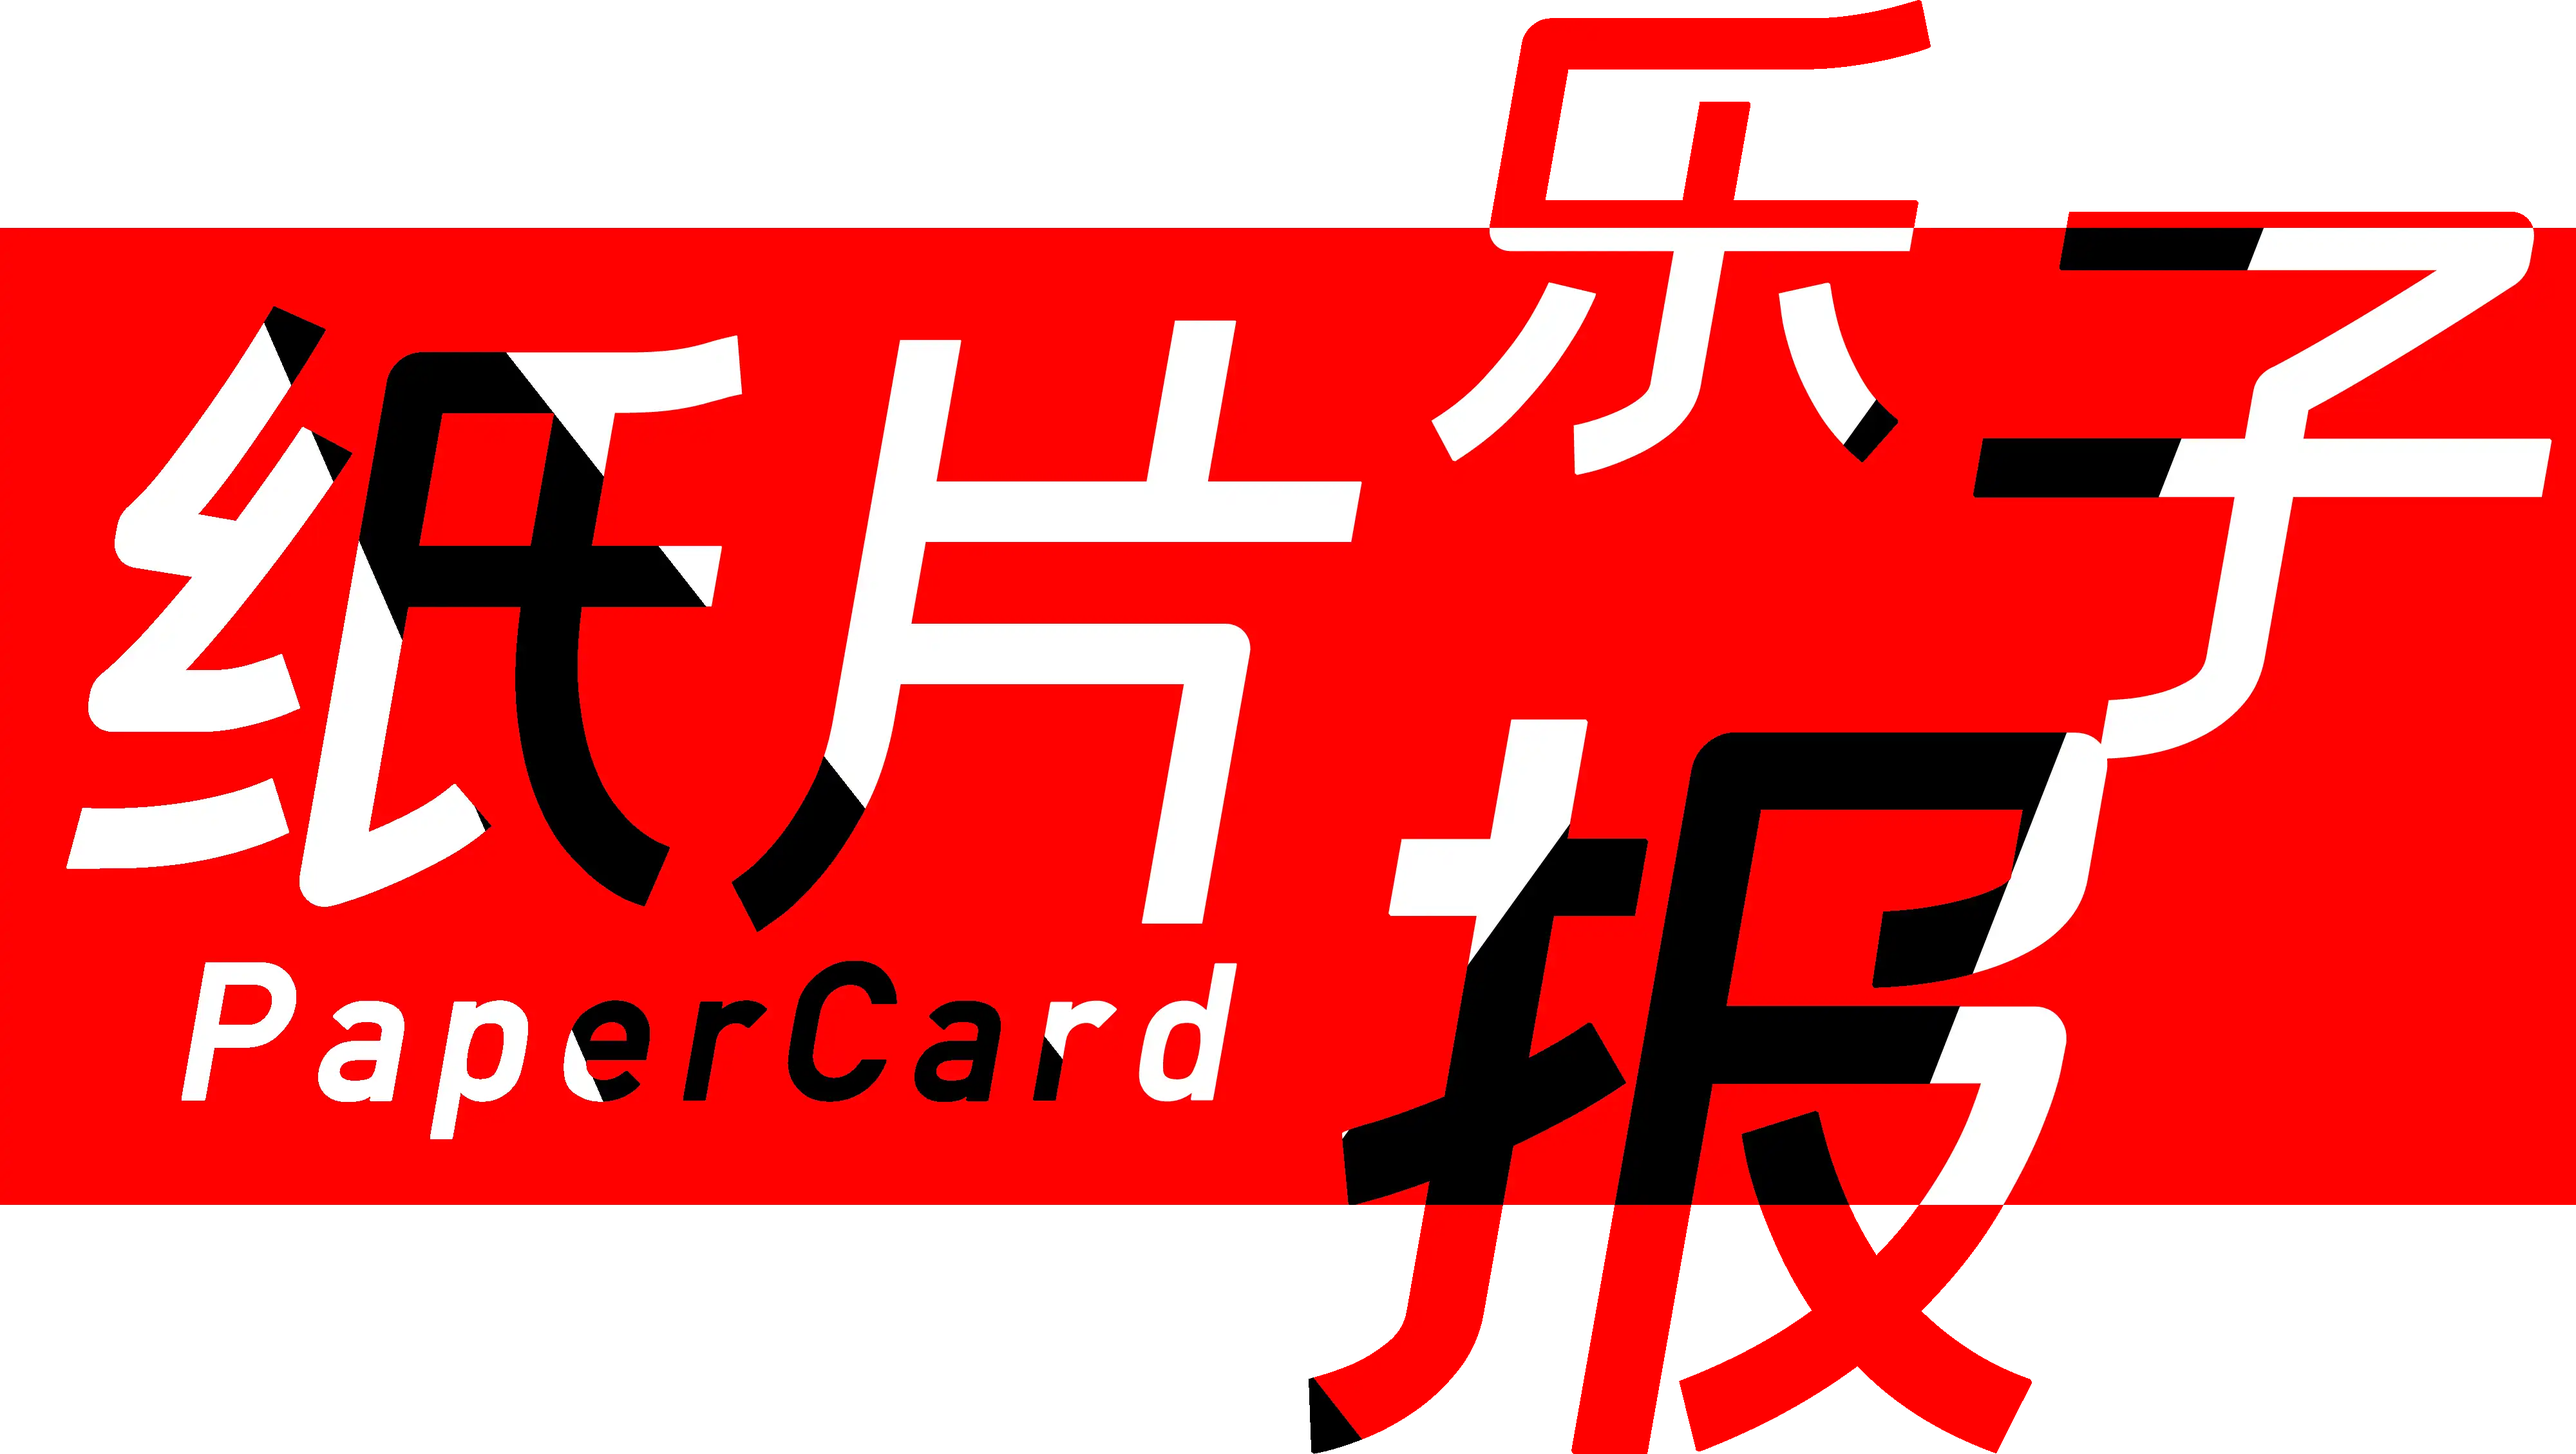
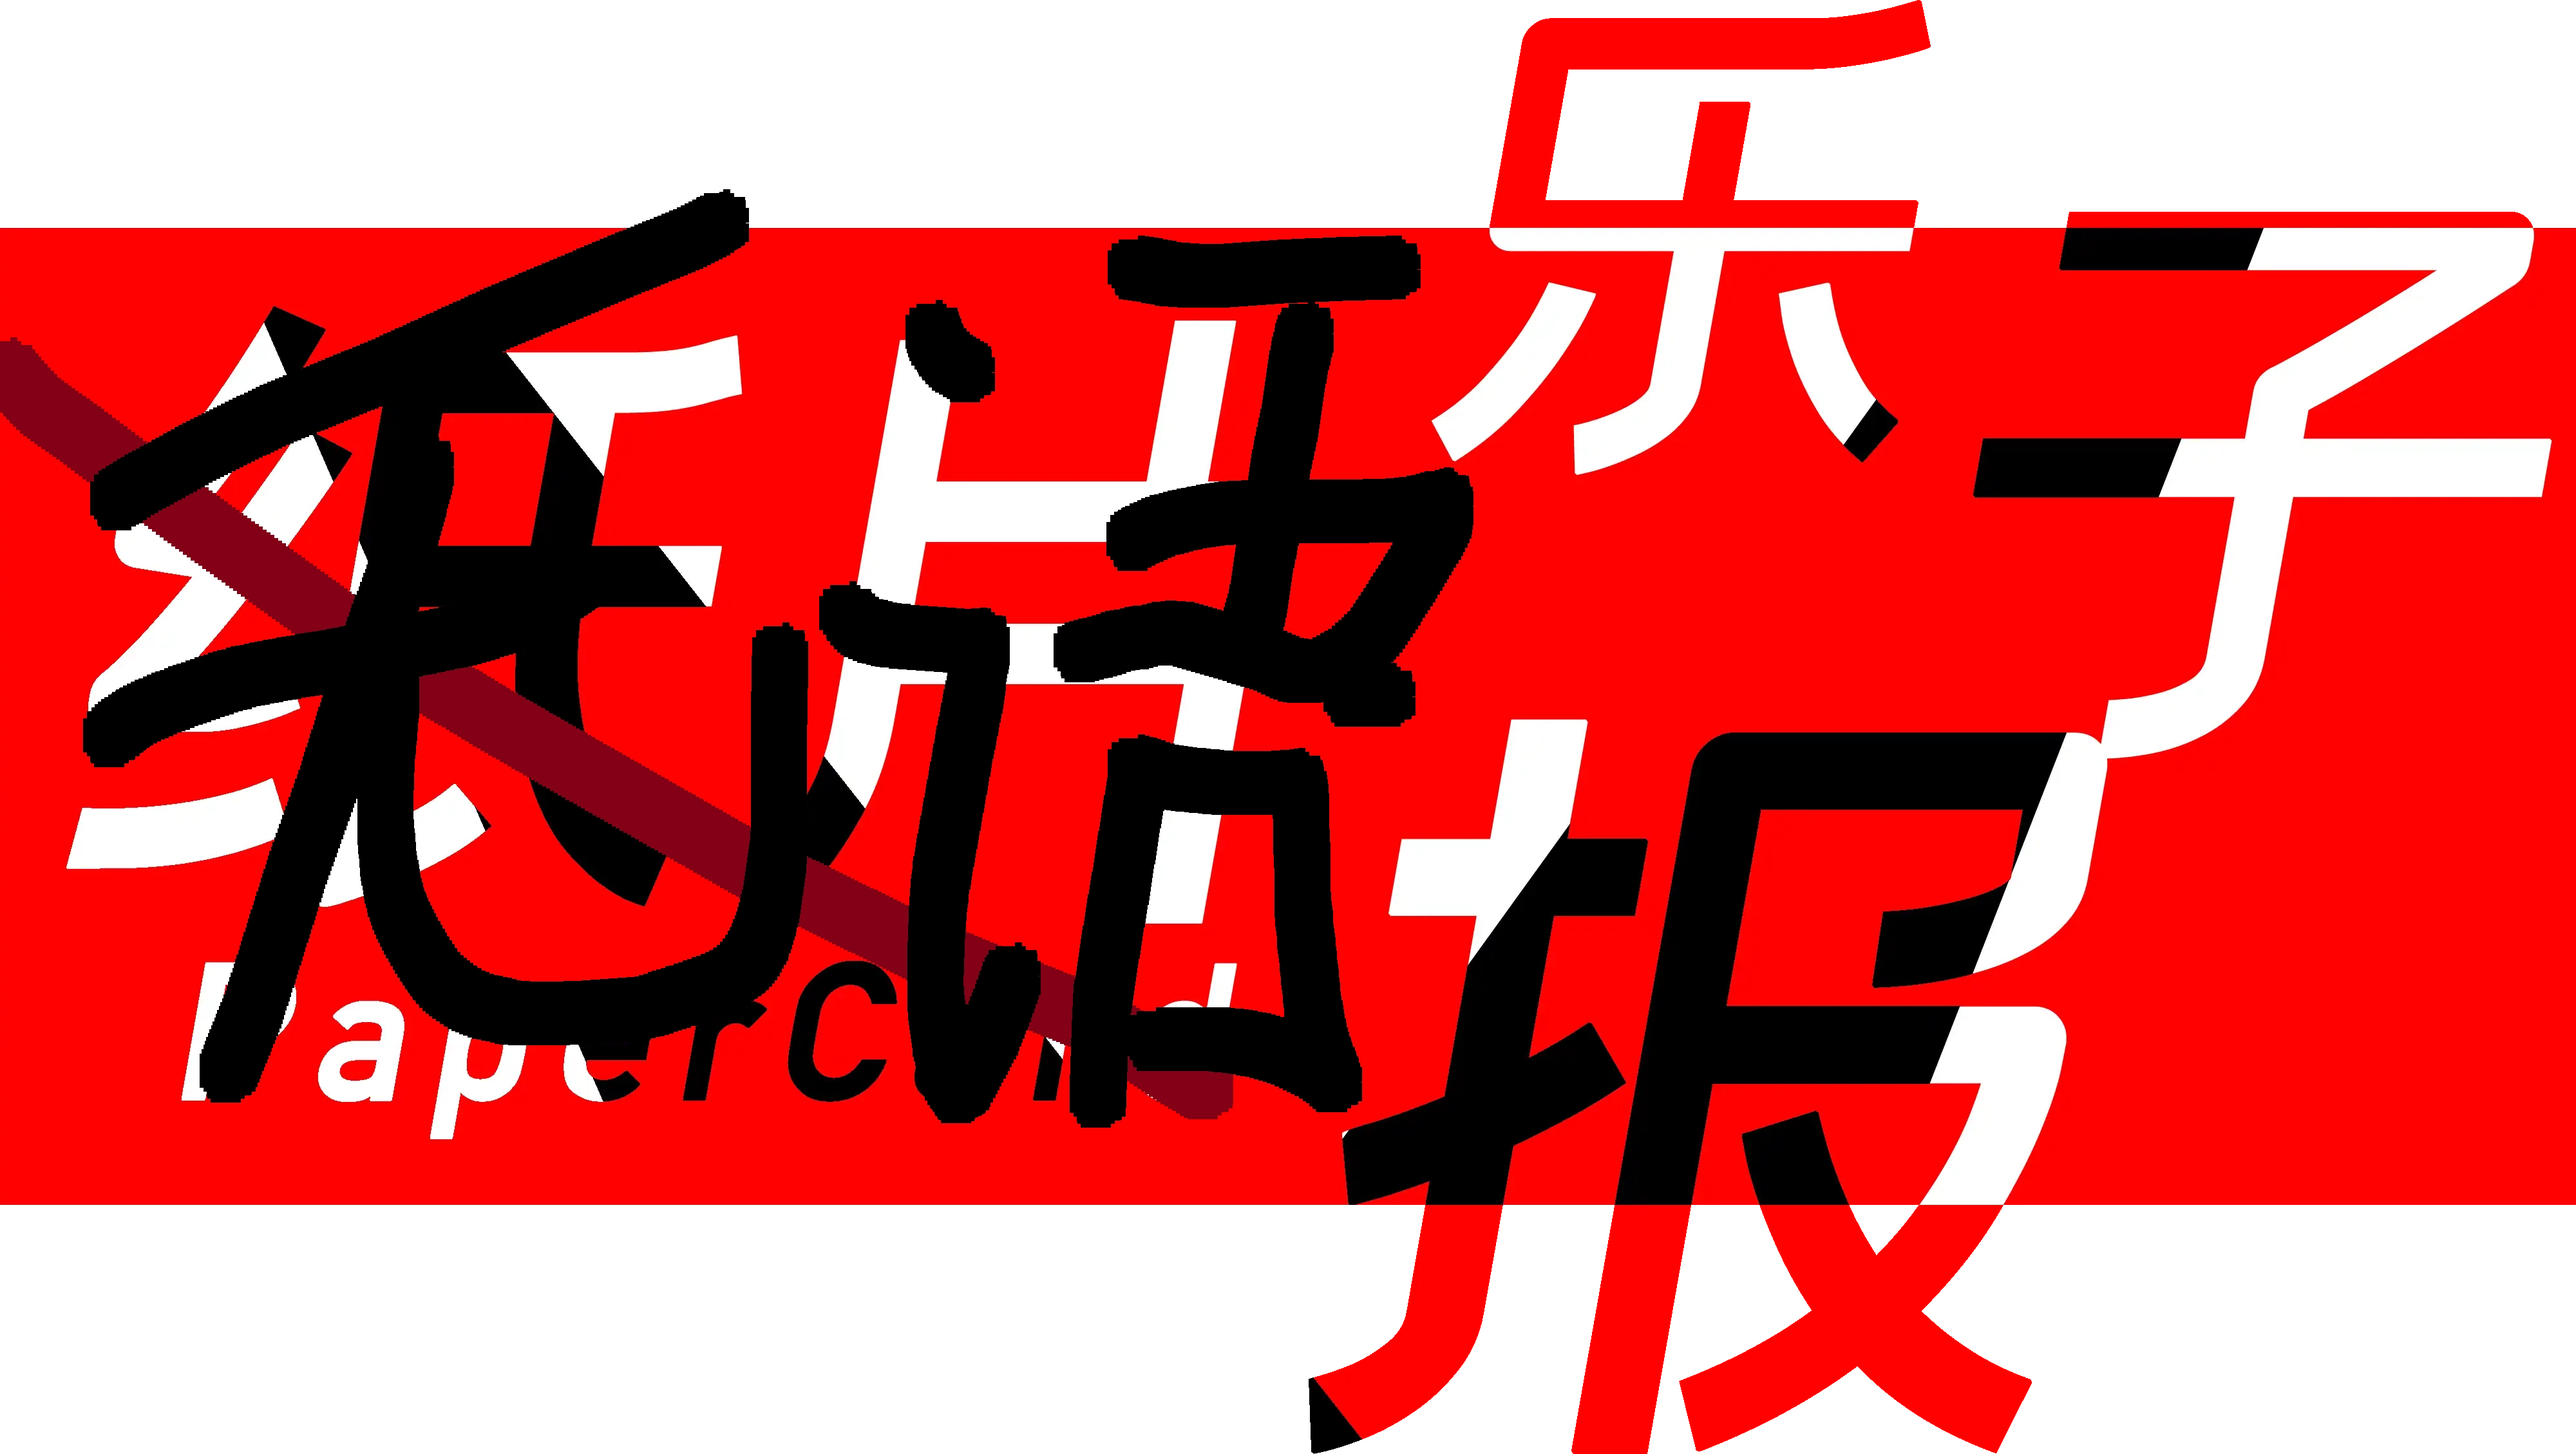
xd

Changed region(s): [[0.0, 0.1239, 0.5938, 0.7747], [0.3438, 0.1859, 0.4062, 0.2789], [0.1562, 0.3099, 0.1875, 0.3718]]

diff --git a/paperlezb/index.md b/paperlezb/index.md
@@ -1,16 +1,17 @@
-# 欢迎来到纸片乐子报！
+# 欢迎来到~~纸片~~物语乐子报！
+### 请稍后，纸片服务器·终曲正在由老部长错过撰写。。。
 ![乐子报logom.webp](./srca/wUqWFFWO.webp)
-## 在这里，你可以查看纸片日报及纸片乐子报几乎所有内容！
+## 在这里，你可以查看~~纸片~~物语日报及~~纸片~~物语乐子报几乎所有内容！
 - [最新一期戳这里！](/LEZ-NEWS/)
 - 请查阅侧边栏，找找看罢！
 - 若发现错别字等错误请PC群内联系:N98MC_DG2
 - 乐子投稿？PC群内联系:N98MC_DG2
-## 加入纸片乐子报！！我们一起：
+## 加入~~纸片~~物语乐子报！！我们一起：
 - 发现乐子·记录乐子·传播乐子·成为乐子
 <br />[加入我们！请戳这个~](/JOIN/)
-## 纸片报纸发展史
+## ~~纸片~~物语报纸发展史
 ::: timeline 2024-03-14
-- 纸片日报成立
+- ~~纸片~~物语日报成立
 - 由部长错过编写第一篇文章
 - 标题为“KFC疯狂星期四 沙雕群友乐子多”
 - 该文原稿丢失，大致内容请看未发表3.14
@@ -29,7 +30,7 @@
  - FF_AEK 记者
 :::
 ::: timeline 2024-03-27
-- 纸片日报发出这次报道后停更
+- ~~纸片~~物语日报发出这次报道后停更
 - 中途冰蓝酱制作报纸未引起关注
 :::
 ::: timeline 2024-04-19
@@ -37,7 +38,7 @@
 - 这是四月来的第一份正式报道
 :::
 ::: timeline 2024-05-25
-- 纸片日报重组为纸片乐子报
+- ~~纸片~~物语日报重组为~~纸片~~物语乐子报
 :::
 ::: timeline 2024-05-26
 - 重组来第一篇报纸产出
